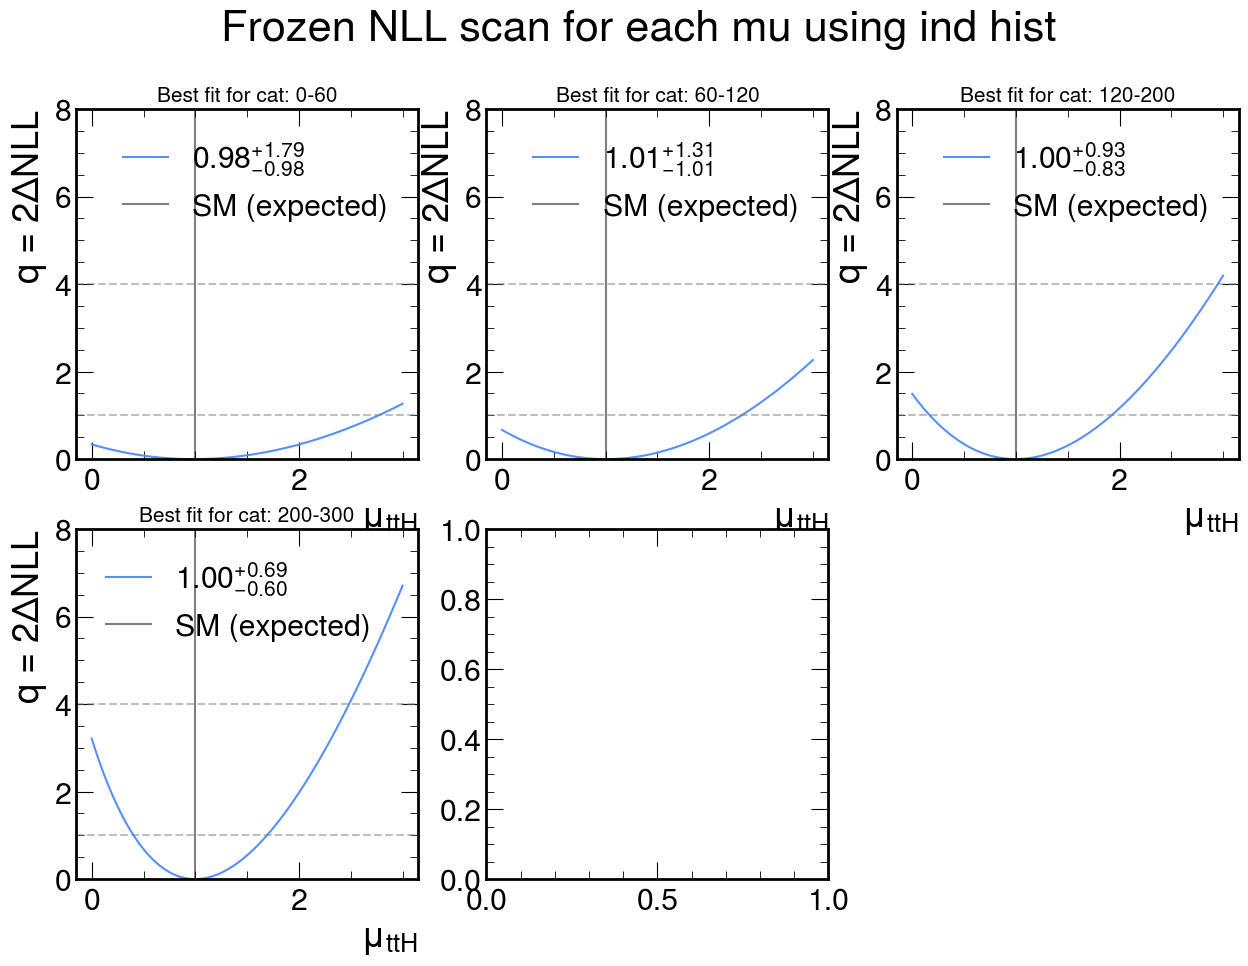
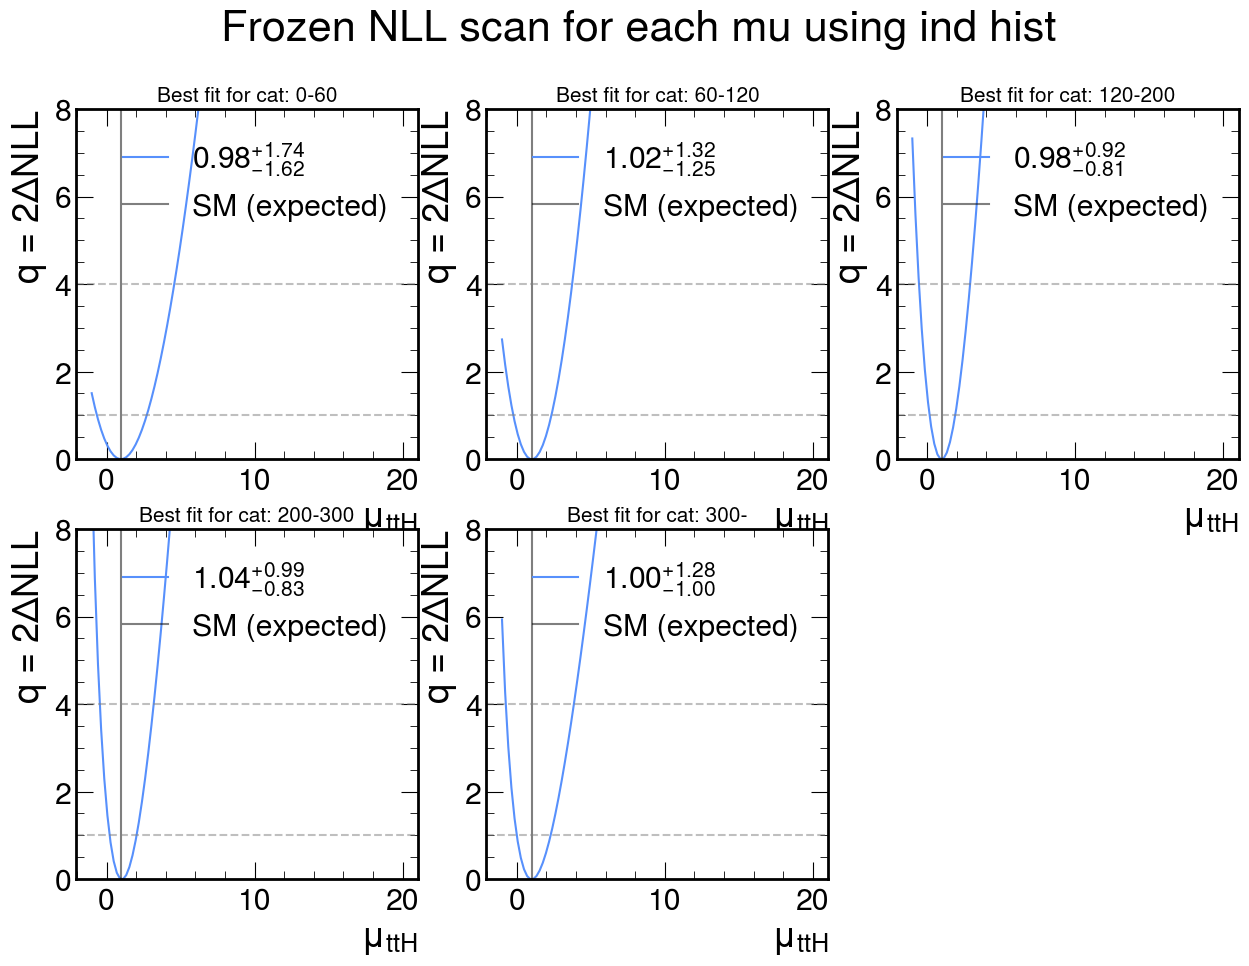
Switched back to 5 categories, was using wrong conf matrix so changed that

diff --git a/simple_stat_analysis.py b/simple_stat_analysis.py
@@ -93,7 +93,7 @@ for i, proc in enumerate(procs.keys()):
     # e.g. number of leptons
     #conditions = get_pt_cat(pt)
     #dfs[proc]['category'] = np.array(dfs[proc]['n_leptons'] >= 1, dtype='int')
-    dfs[proc]['category'] =  get_pt_cat(pt, bins=[0,60,120,200])
+    dfs[proc]['category'] =  get_pt_cat(pt, bins=[0,60,120,200,300])
     
 # Extract different cat integers
 cats_unique = []
@@ -164,19 +164,19 @@ for cat in cats_unique:
 #print(hists)
 # Calculate NLL as a function of ttH signal strength (assuming fixed bkg and ggH yields)
 NLL_vals = []
-mu_vals = np.linspace(0,3,100)
+mu_vals = np.linspace(-1,20,100)
 new_samples = pd.read_parquet(f"{sample_path}/ttH_processed_selected.parquet")
-
+#%%
 '''
 Frozen scan over mu
 '''
-conf_matrix = get_conf_mat(new_samples) #conf_matrix[2] is the one normalised by recon
-init_mu = [1,1,1,1]
+conf_matrix_raw, conf_matrix, conf_matrix_recon = get_conf_mat(new_samples) #conf_matrix[2] is the one normalised by recon
+init_mu = [1 for i in range(len(conf_matrix))]
 for cat in cats_unique:
     cat_vals = []
     for mu in mu_vals:
         init_mu[cat]=mu
-        cat_vals.append(calc_NLL(hists, init_mu, conf_matrix[2]))
+        cat_vals.append(calc_NLL(hists, init_mu, conf_matrix))
     #print(cat_vals)
     init_mu[cat]=1
     #print("________________________________")
@@ -221,9 +221,21 @@ Scanning using combined hist
 print('''
 NLL FROZEN SCAN USING COMBINED HISTOGRAM
 ''')
-comb_hist = build_combined_histogram(hists, conf_matrix[2], mass_bins=5)
+print(f'''Before combining
+      {hists}
+      ''')
+comb_hist = build_combined_histogram(hists, conf_matrix, mass_bins=5)
 #NLL_vals = []
-init_mu = np.ones(len(conf_matrix[2]))
+print(f'''
+After combining
+      {comb_hist}
+''')
+bin_edges = np.arange(len(next(iter(comb_hist.values()))))
+for cat, hist in comb_hist.items():
+    plt.bar(bin_edges,hist, label=cat)
+    plt.title(f"Cat: {cat}")
+    plt.show()
+init_mu = np.ones(len(conf_matrix))
 
 fig, axes = plt.subplots(ncols=5, figsize=(25, 5), dpi = 300, sharex=True)
 
@@ -260,8 +272,8 @@ NLL PROFILED SCAN USING COMBINED HISTOGRAM
 ''')
 best_mus = np.ones(5)
 fig, ax = plt.subplots(1, 5, figsize=(40, 7))
-for idx in range(len(conf_matrix[2])):
-    best_mus[idx], nll_mu = profiled_NLL_fit(comb_hist,conf_matrix[2], idx)
+for idx in range(len(conf_matrix)):
+    best_mus[idx], nll_mu = profiled_NLL_fit(comb_hist,conf_matrix, idx, mu_vals)
     vals = find_crossings((mu_vals, TwoDeltaNLL(nll_mu)), 1.)
     print("Best mu for idx:", idx, "is", vals[0] ,"+/-", vals[1:])
     label = add_val_label(vals)
@@ -281,7 +293,7 @@ print('''
       NLL Global fit
 ''')
 
-global_mu, global_nll, hessian, cov = global_nll_fit(comb_hist, conf_matrix[2])
+global_mu, global_nll, hessian, cov = global_nll_fit(comb_hist, conf_matrix)
 print(f"""
       Global best fit for mu: {global_mu}
         Hessian: {hessian}
@@ -294,11 +306,11 @@ print('''
 Getting Hessian matrix
 ''')
 print("All mus:", all_mu)
-hessian = np.zeros((len(conf_matrix[2]), len(conf_matrix[2])))
+hessian = np.zeros((len(conf_matrix), len(conf_matrix)))
 #hessian = [[0 for i in range(5)] for j in range(5)]
-for i in range(len(conf_matrix[2])):
-    for j in range(len(conf_matrix[2])):
-        hessian[i][j] = get_hessian(i,j, hists, all_mu, conf_matrix[2])
+for i in range(len(conf_matrix)):
+    for j in range(len(conf_matrix)):
+        hessian[i][j] = get_hessian(i,j, hists, all_mu, conf_matrix)
 print("Hessian: \n", hessian)
 show_matrix(hessian, "Hessian matrix")
 show_matrix(get_cov(hessian), "Covariance matrix")
@@ -306,12 +318,16 @@ show_matrix(get_cov(hessian), "Covariance matrix")
 print('''
 Getting Hessian matrix from combined hist
 ''')
-hessian_comb = np.zeros((len(conf_matrix[2]), len(conf_matrix[2])))
+fig, ax = plt.subplots(1, 3, figsize=(25, 5))
+hessian_comb = np.zeros((len(conf_matrix), len(conf_matrix)))
 
-for i in range(len(conf_matrix[2])):
-    for j in range(len(conf_matrix[2])):
+for i in range(len(conf_matrix)):
+    for j in range(len(conf_matrix)):
         hessian_comb[i][j] = get_hessian_comb(i,j, comb_hist, all_mu)
 print("Hessian from comb hist: \n", hessian_comb)
-show_matrix(hessian_comb, "Hessian matrix from comb hist")
-show_matrix(get_cov(hessian_comb), "Covariance matrix from comb hist")
+show_matrix(hessian_comb, "Hessian matrix from comb hist", ax[0])
+show_matrix(get_cov(hessian_comb), "Covariance matrix from comb hist", ax[1])
+correlation_matrix = get_correlation_matrix(get_cov(hessian_comb))
+show_matrix(correlation_matrix, "Correlation matrix", ax[2])
+print(get_uncertainties(get_cov(hessian_comb)))
 # %%

diff --git a/utils.py b/utils.py
@@ -254,17 +254,18 @@ def get_conf_mat(data):
     yield_after_sel = data['plot_weight'].sum()
     eff = (yield_after_sel/yield_before_sel)*100
     print(f"N = {yield_before_sel:.2f} --> {yield_after_sel:.2f}, eff = {eff:.1f}%")
-
+    bins = [0,60,120,200,300]
     #print(data)
 
     truth = data["HTXS_Higgs_pt_sel"]
     recon = data["pt-over-mass_sel"]*data["mass_sel"]
 
-    truth_cat = get_pt_cat(truth, bins = [0,60,120,200])
-    recon_cat = get_pt_cat(recon, bins = [0,60,120,200])
-    
+    truth_cat = get_pt_cat(truth, bins = bins)
+    recon_cat = get_pt_cat(recon, bins = bins)
+    #conf_matrix_hist, xedges, yedges = np.histogram2d(truth_cat, recon_cat, bins=[4, 4], weights=data["plot_weight"])
+    #print(conf_matrix_hist)
     #6x6 conf matrix where x axis is truth dimension and y axis is recon dimension
-    conf_mat =np.zeros((4,4))
+    conf_mat =np.zeros((len(bins),len(bins)))
 
     for i in range(len(recon_cat)):
         #print(data["plot_weight"][i], recon_cat[i],truth_cat[i], conf_mat[recon_cat[i]][truth_cat[i]]+data["plot_weight"][i])
@@ -279,7 +280,7 @@ def get_conf_mat(data):
     #print("Conf matrix by proportion of truth: ", conf_mat_truth_prop)
     #print("Conf matrix by proportion of recon: ", conf_mat_recon_prop)
     #labels = ["0-60", "60-120", "120-200", "200-300", "300-inf"]
-    labels = ["0-60", "60-120", "120-200", "200-inf"]
+    labels = ["0-60", "60-120", "120-200", "200-300", "300-inf"]
     plt.figure(figsize=(8, 6))
     sns.heatmap(conf_mat, annot=True, fmt=".2f", cmap="Blues", cbar=True,
                 xticklabels=labels, yticklabels=labels)
@@ -291,7 +292,7 @@ def get_conf_mat(data):
     plt.savefig(f"{analysis_path}/conf.png")
 
     plt.figure(figsize=(8, 6))
-    sns.heatmap(conf_mat_recon_prop, annot=True, fmt=".2f", cmap="Blues", cbar=True,
+    sns.heatmap(conf_mat_recon_prop, annot=True, fmt=".3f", cmap="Blues", cbar=True,
                 xticklabels=labels, yticklabels=labels)
 
     # Add labels to the plot
@@ -302,7 +303,7 @@ def get_conf_mat(data):
 
 
     plt.figure(figsize=(8, 6))
-    sns.heatmap(conf_mat_truth_prop, annot=True, fmt=".2f", cmap="Blues", cbar=True,
+    sns.heatmap(conf_mat_truth_prop, annot=True, fmt=".3f", cmap="Blues", cbar=True,
                 xticklabels=labels, yticklabels=labels)
 
     # Add labels to the plot
@@ -313,19 +314,30 @@ def get_conf_mat(data):
 
     return (conf_mat, conf_mat_truth_prop, conf_mat_recon_prop)
 
-#data = pd.read_parquet(f"{sample_path}/ttH_processed_selected.parquet")
+data = pd.read_parquet(f"{sample_path}/ttH_processed_selected.parquet")
 
-#get_conf_mat(data)
+get_conf_mat(data)
 
 def get_cov(hessian):
     return np.linalg.inv(hessian)
 
-def show_matrix(matrix, title):
-    plt.figure(figsize=(8, 6))
+def show_matrix(matrix, title, ax="plt"):
+    #ax.figure(figsize=(8, 6))
     #plt.imshow(matrix, cmap='viridis', interpolation='none')
-    sns.heatmap(matrix, annot=True, fmt=".4f", cmap='viridis', cbar=False, annot_kws={"size": 10})
-    #plt.colorbar(label='Value')
-    plt.title(title)
+    if ax=="plt":
+        sns.heatmap(matrix, annot=True, fmt=".4f", cmap='viridis', cbar=False, annot_kws={"size": 10})
+        plt.title(title)
+    else:
+        sns.heatmap(matrix, annot=True, fmt=".4f", cmap='viridis', cbar=False, annot_kws={"size": 10}, ax=ax)
+        ax.set_title(title)
     #plt.xlabel('Column')
     #plt.ylabel('Row')
-    plt.show()
+    #ax.show()
+
+def get_correlation_matrix(cov_matrix):
+    std_dev = np.sqrt(np.diag(cov_matrix))
+    correlation_matrix = cov_matrix / np.outer(std_dev, std_dev)
+    correlation_matrix[cov_matrix == 0] = 0  # Handle division by zero
+    return correlation_matrix
+def get_uncertainties(cov_matrix):
+    return np.sqrt(np.diag(cov_matrix))

diff --git a/nll.py b/nll.py
@@ -82,10 +82,10 @@ def calc_NLL_comb(combined_histogram, mus, signal='ttH'):
     return -NLL_total
 
 # Scans over 1 mu index and at each step minimises all others so gives best fit for that mu value
-def profiled_NLL_fit(combined_histogram, conf_matrix, mu_idx):
+def profiled_NLL_fit(combined_histogram, conf_matrix, mu_idx, mu_vals):
     num_truth = len(conf_matrix[0])
 
-    mu_vals = np.linspace(0, 3, 100)
+    #mu_vals = np.linspace(0, 3, 100)
     nll = []
 
     def calc_nll_fixed_mu(fixed, others):
